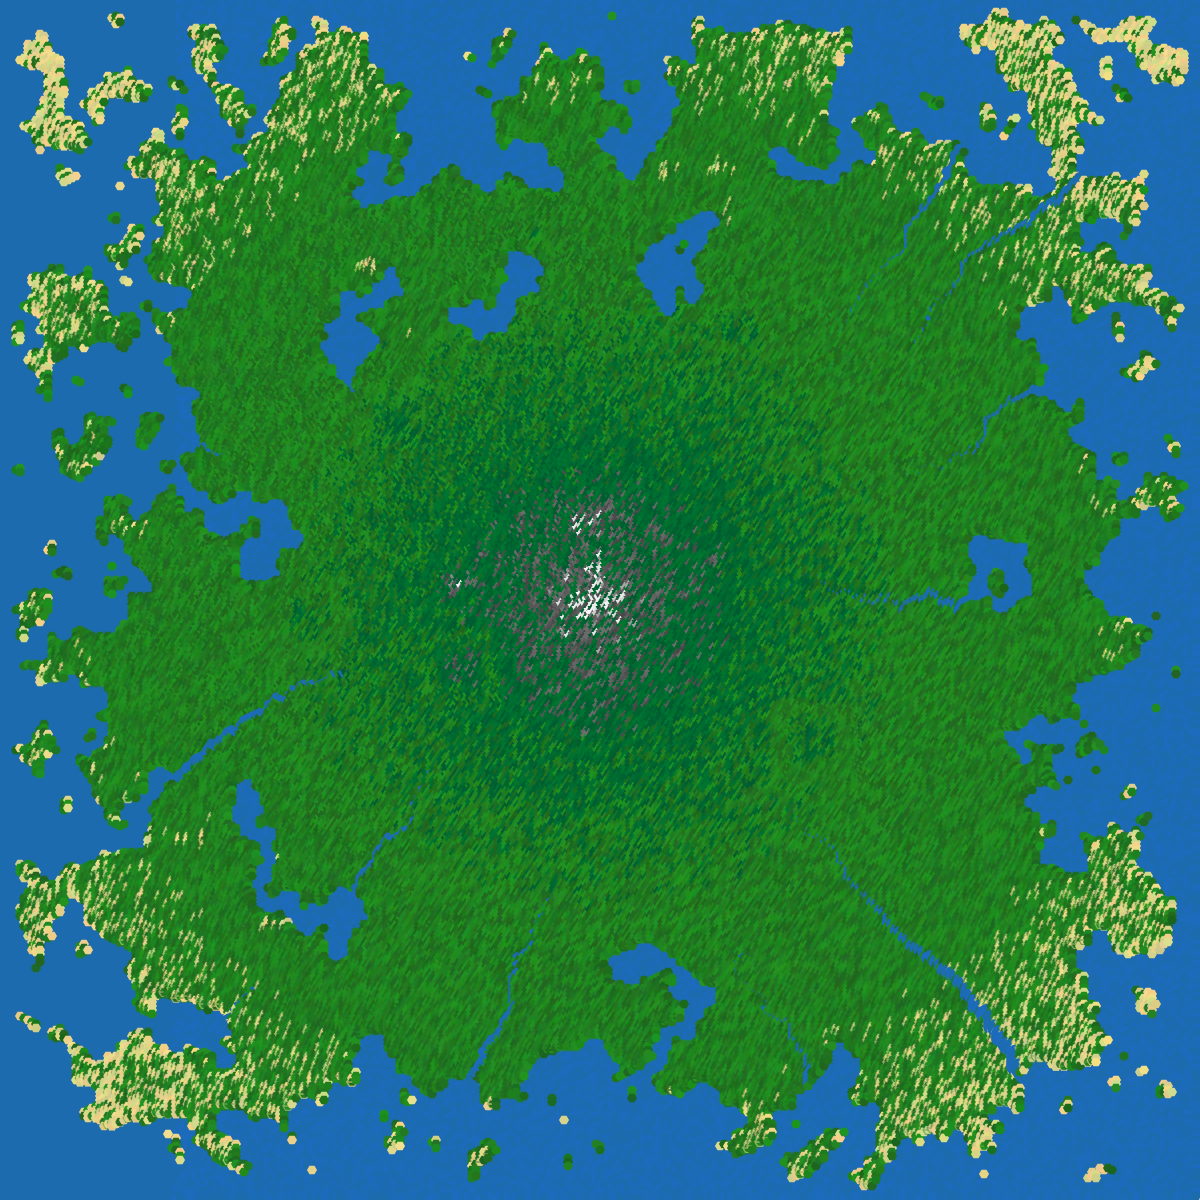
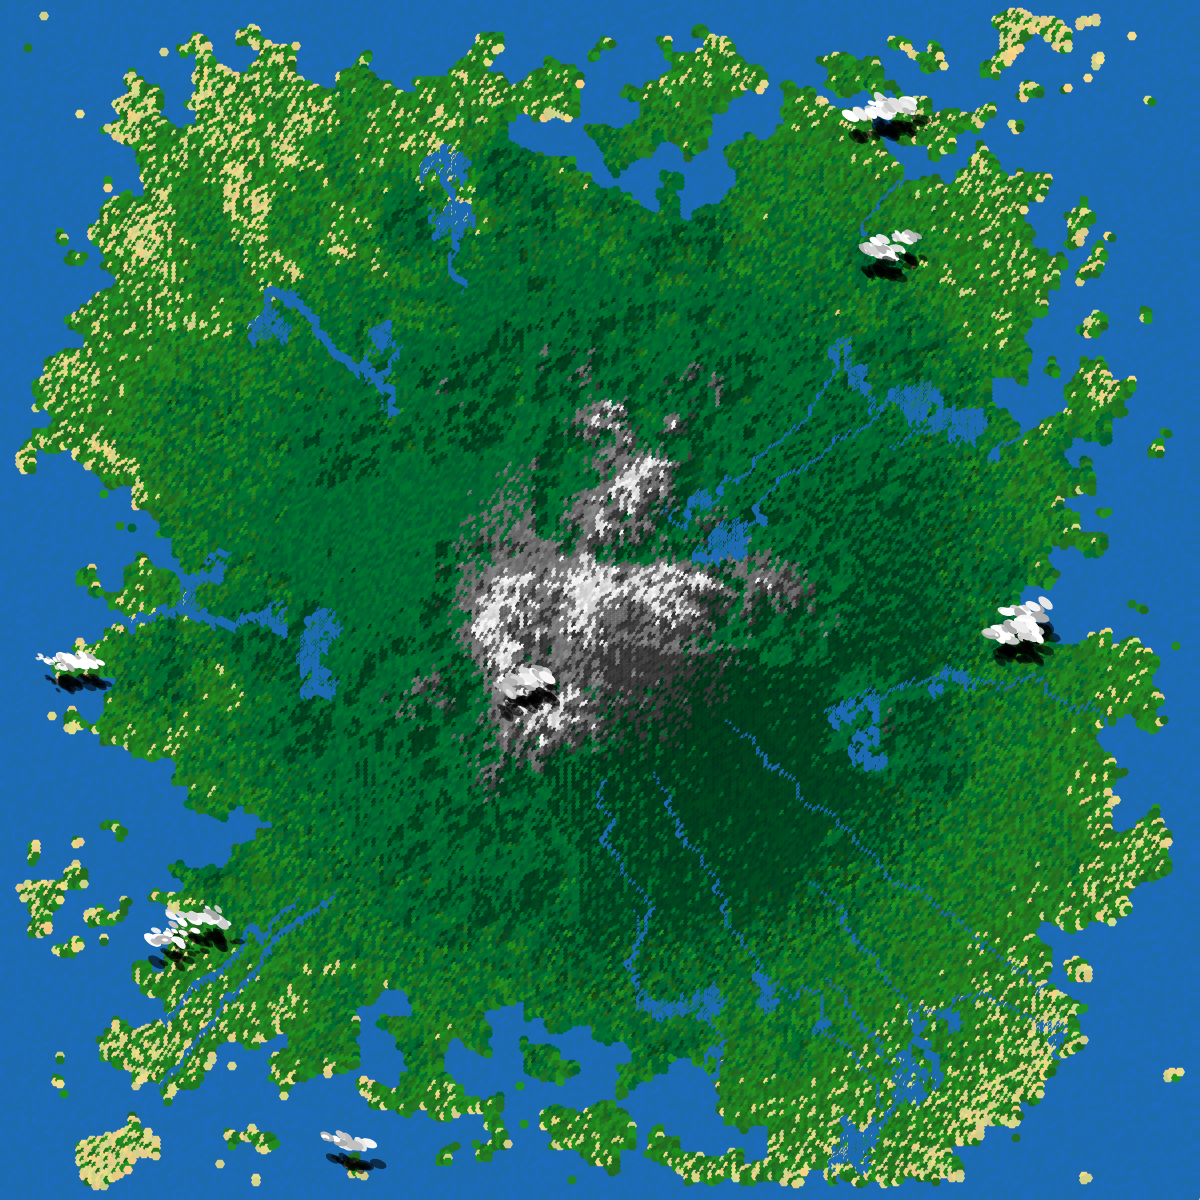
more and better stuff

diff --git a/script/terrain.js b/script/terrain.js
@@ -6,7 +6,7 @@ function createCoast(){
 				tiles[i][j].makeWater();
 			}
 			if(i == 1 || j == 1 || i == numberOfTiles-2 || j == numberOfTiles-2){
-				createLake(tiles[i][j], 700);
+				createLake(tiles[i][j], numberOfTiles*3);
 			}
 		}
 	}
@@ -24,75 +24,12 @@ function createLake(currentTile, size) {
 	for(var i = 0; i < currentTile.neighbors.length; i++){
 		if(i != next){
 			currentTile.neighbors[i].makeWater();
-			/*for(var j = 0; j < currentTile.neighbors[i].neighbors.length; j++){
-				if(currentTile.neighbors[i].neighbors[j].type != "water" && random(0,1) > 0.7){
-					//currentTile.neighbors[i].neighbors[j].makeBeach();
-				}
-			}*/
 		}
 	}
 	createLake(currentTile.neighbors[next], size);
 }
 
-var riverCounter = 0;
-var maxThickness = 10;
-function createRiver(currentTile, thickness){
-	riverCounter += 1;
-	if(thickness > maxThickness){
-		thickness = maxThickness;
-	}
-	strokeWeight(thickness);
-	stroke(28,107,random(170,190));
-	if(currentTile.elevation == 0){
-		riverCounter = 0;
-		noStroke();
-		return;
-	}
-	if( riverCounter > 100){
-		createLake(currentTile,300);
-		riverCounter = 0;
-		return;
-	}
-	var slope = 10000;
-	var nextTile;
-	for (var i = 0; i < currentTile.neighbors.length; i++) {
-		if(currentTile.neighbors[i].elevation < slope){
-			slope = currentTile.neighbors[i].elevation;
-			nextTile = currentTile.neighbors[i];
-		}
-	}
-	currentTile.addRiver(nextTile, thickness);
-	createRiver(nextTile, thickness+0.1);
-}
 
-
-function createMountain(currentTile, size, grayVal){
-	if(currentTile.corner){
-		return;
-	}
-	var queue = [];
-	var maxGray = 100;
-	var mountainCounter = 0;
-	queue.push(currentTile);
-	var elevation = 50;
-	while(mountainCounter < size){
-		var currentTile = queue.shift();
-		mountainCounter += 1;
-		if(grayVal < maxGray){
-			grayVal = maxGray*1.5;
-		}
-		for(var i = 0; i < currentTile.neighbors.length; i++){
-			if(!currentTile.neighbors[i].corner && currentTile.neighbors[i].type != "mountain"){
-				currentTile.neighbors[i].makeMountain(elevation,grayVal);
-				if(random(0,1) > 0.55){
-					queue.push(currentTile.neighbors[i]);
-				}
-			}
-		}
-		grayVal = grayVal*random(0.98,1);
-		elevation=elevation*random(0.8,1);
-	}
-}
 
 function elevateArea(currentTile, size, min,max){
 	if(currentTile.corner){
@@ -105,16 +42,57 @@ function elevateArea(currentTile, size, min,max){
 	queue.push(currentTile);
 	while (counter < size) {
 		counter += 1;
+		if(queue.length == 0){
+			return;
+		}
 		var currentTile = queue.shift();
 		for(var i = 0; i < currentTile.neighbors.length; i++){
 			if(!currentTile.neighbors[i].corner){
 				currentTile.neighbors[i].elevate(currentTile.neighbors[i].elevation +random(min,max) + elevation);
 				if(!visited.includes(currentTile.neighbors[i])){
 					visited.push(currentTile.neighbors[i]);
-					queue.push(currentTile.neighbors[i]);
+					if(random(1)>0.5){ //fix for sqare elevation.
+						queue.push(currentTile.neighbors[i]);
+					}
 				}
 			}
 		}
 		elevation -= 0.05;
+	}
+}
+
+
+function createRiver(currentTile, thickness) {
+	var riverCounter = 0;
+	var maxThickness = 5;
+	var visited = [];
+	var running = true;
+	var slope;
+	var nextTile;
+	while (running) {
+		visited.push(currentTile);
+		riverCounter += 1;
+		thickness += 0.1;
+		if(thickness > maxThickness){
+			thickness = maxThickness;
+		}
+		strokeWeight(thickness);
+		if(currentTile.type == "water" || riverCounter > 300 || currentTile.elevation > heightLevel4){
+			running = false;
+		}
+		else {
+			slope = 1000;
+			for (var i = 0; i < currentTile.neighbors.length; i++) {
+				if(currentTile.neighbors[i].elevation < slope){
+					slope = currentTile.neighbors[i].elevation;
+					nextTile = currentTile.neighbors[i];
+				}
+			}
+			if(visited.includes(nextTile)){
+				nextTile = currentTile.neighbors[int(random(8))]
+			}
+			currentTile.addRiver(nextTile, thickness);
+		}
+		currentTile = nextTile;
 	}
 }

diff --git a/script/Tile.js b/script/Tile.js
@@ -46,15 +46,40 @@ function Tile(x,y,corner,radius) {
 	this.smooth = function(){
 		var slope = 10000;
 		var stepestTile;
+		var tilePos;
 		for (var i = 0; i < this.neighbors.length; i++) {
 			if(this.neighbors[i].elevation < slope){
 				slope = this.neighbors[i].elevation;
 				stepestTile = this.neighbors[i];
+				tilePos = i;
 			}
 		}
-		strokeWeight(slope*0.005);
-		stroke(red(this.color),green(this.color),blue(this.color),10+slope);
-		line(stepestTile.x, stepestTile.y, x, y);
+		if(stepestTile == null){
+			return;
+		}
+		strokeWeight(0.5);
+		if((tilePos == 4 || tilePos == 5 || tilePos == 6) && this.elevation > (heightLevel2 + random(0,50))){
+			this.color = color(0,0.35*slope);
+			fill(this.color);
+			beginShape();
+			var angle = TWO_PI/6;
+			var a = 0;
+			for(var i = 0; i < 8; i++){
+				vertex(x+ cos(a) * radius, y + sin(a) * radius);
+				a += angle;
+				vertex(x + cos(a) * radius, y +  sin(a) * radius);
+				a += angle;
+			}
+			endShape(CLOSE);
+			/*stroke(0,0.2*slope);
+			line(stepestTile.x, stepestTile.y, x, y);*/
+		}else {
+			/*stroke(red(this.color),green(this.color),blue(this.color));
+			line(stepestTile.x, stepestTile.y, x, y);*/
+		}
+		noStroke();
+
+
 	}
 
 	this.makeWater = function(){
@@ -95,20 +120,24 @@ function Tile(x,y,corner,radius) {
 }
 
 function calcColor(elevation){
-	if(elevation < (dist(0,0,canvasWidth/2,canvasHeight/2)*0.3 + random(-130,50))){
+	if(elevation < (heightLevel1 + random(-130,50))){
 		return color(random(200,249),random(200,225),random(130,145));//beach
 	}
-	else if(elevation < (dist(0,0,canvasWidth/2,canvasHeight/2)*0.75 + random(-50,50))){
+	else if(elevation < (heightLevel2 + random(-50,50))){
 		return color(random(25,38),random(100,150),random(25,38));//forrest green
+		//return color(0,random(90,120),random(45,51));// dark forrest green
 	}
-	else if(elevation < (dist(0,0,canvasWidth/2,canvasHeight/2)*0.95 + random(-50,50))){
-		return color(0,random(90,120),random(45,51));
+	else if(elevation < (heightLevel3 + random(-20,20))){
+		return color(0,random(90,120),random(45,51));// dark forrest green
+		//return color(random(25,38),random(100,150),random(25,38));//forrest green
+		//return color(random(28,35),random(110,130),random(28,35));//forrest green less random
 	}
-	else if(elevation < (dist(0,0,canvasWidth/2,canvasHeight/2)*0.98 + random(-20,20))){
-		return color(random(70,110));
+	else if(elevation < (heightLevel4 + random(-20,20))){
+		//return color(180,random(200,210),180);// light green
+		return color(random(90,120));
 	}
-	else if(elevation < (dist(0,0,canvasWidth/2,canvasHeight/2)*0.99 + random(-20,0))){
-		return color(random(80,170));
+	else if(elevation < (heightLevel5 + random(-20,0))){
+		return color(random(100,140));
 	}
 	else {
 		return color(random(200,250));

diff --git a/script/sketch.js b/script/sketch.js
@@ -1,6 +1,6 @@
 
 var tiles = [];
-var riverStartTiles = [];
+var clouds = [];
 
 var numberOfTiles = 300;
 
@@ -16,8 +16,9 @@ var heightLevel1;
 var heightLevel2;
 var heightLevel3;
 var heightLevel4;
+var heightLevel5;
 
-var treeline = 1;
+
 
 function setup() {
 	createCanvas(600, 600);
@@ -27,10 +28,15 @@ function setup() {
 	originX = canvasWidth/2;
 	originY = canvasHeight/2;
 
+	//HeightLevel is determined by proximity to the origin.
+	heightLevel1 = dist(0,0,canvasWidth/2,canvasHeight/2)*0.3;
+	heightLevel2 = dist(0,0,canvasWidth/2,canvasHeight/2)*0.5;
+	heightLevel3 = dist(0,0,canvasWidth/2,canvasHeight/2)*0.85;
+	heightLevel4 = dist(0,0,canvasWidth/2,canvasHeight/2)*0.90;
+	heightLevel5 = dist(0,0,canvasWidth/2,canvasHeight/2)*0.98;
 
-
-	background(200);
 	noLoop();
+	background(200);
 	generateMap();
 }
 
@@ -46,7 +52,9 @@ function generateMap() {
 	createTiles();
 	colorTiles();
 	createDetails();
+	createClouds();
 	displayTiles();
+	displayClouds();
 }
 
 function createTiles(){
@@ -117,15 +125,27 @@ function connectPoints() {
 
 function colorTiles() {
 	createCoast();
-
-	for (var i = 0; i < 20; i++) {
-		elevateArea(tiles[int(random(20,numberOfTiles-20))][int(random(20,numberOfTiles-20))],random(100,400), 1,10);
+	for (var i = 0; i < 80; i++) {
+		elevateArea(tiles[int(random(20,numberOfTiles-20))][int(random(20,numberOfTiles-20))],random(100,600), 5,15);
 	}
 
 }
 
 function createDetails() {
-	for (var i = 0; i < 15; i++) {
-		createRiver(tiles[int(random(50,numberOfTiles-50))][int(random(50,numberOfTiles-50))],1.5);
+	for (var i = 0; i < 20; i++) {
+		createRiver(tiles[int(random(50,numberOfTiles-50))][int(random(50,numberOfTiles-50))],3);
+	}
+}
+
+function createClouds() {
+	var numberOfClouds = random(5,15);
+	for (var i = 0; i < numberOfClouds; i++) {
+		clouds.push(new Cloud(random(canvasWidth),random(canvasHeight)));
+	}
+}
+
+function displayClouds() {
+	for (var i = 0; i < clouds.length; i++) {
+		clouds[i].draw();
 	}
 }

diff --git a/script/Cloud.js b/script/Cloud.js
@@ -1,0 +1,43 @@
+function Cloud(x,y) {
+	this.x = x;
+	this.y = y;
+	this.parts = [];
+	var cloudSize = random(10,70);
+	for (var i = 0; i < cloudSize; i++) {
+		var rotation = random(0.01,0.1) * radians(540);
+		var edgeSize = random(0.01,0.05) * 200;
+		var grey = (150 + random(0.1,1) * 150);
+		var alph = (150 + random(0.01,3) * 150);
+		this.x += random(-7,7);
+		this.y += random(-2,2);
+		this.parts.push(new CloudPart(this.x,this.y,grey,alph,edgeSize,rotation));
+	}
+
+	this.draw = function() {
+		for (var i = 0; i < this.parts.length; i++) {
+			this.parts[i].draw();
+		}
+	}
+
+}
+
+
+function CloudPart(x,y,grey,alpha,size, rotation) {
+	this.x = x;
+	this.y = y;
+	this.grey = grey;
+	this.alpha = alpha;
+	this.size = size;
+	this.rotation = rotation;
+	this.draw = function() {
+		push();
+		translate(this.x,this.y);
+		rotate(this.rotation);
+		noStroke();
+		fill(0,150);
+		ellipse(8,8,this.size,this.size/2);
+		fill(this.grey, this.alph);
+		ellipse(0,0,this.size,this.size/2);
+		pop();
+	}
+}

diff --git a/index.html b/index.html
@@ -9,6 +9,7 @@
 	<script src="script/sketch.js" type="text/javascript"></script>
   <script src="script/Tile.js" type="text/javascript"></script>
   <script src="script/terrain.js" type="text/javascript"></script>
+  <script src="script/Cloud.js" type="text/javascript"></script>
   </head>
   <body>
   </body>
